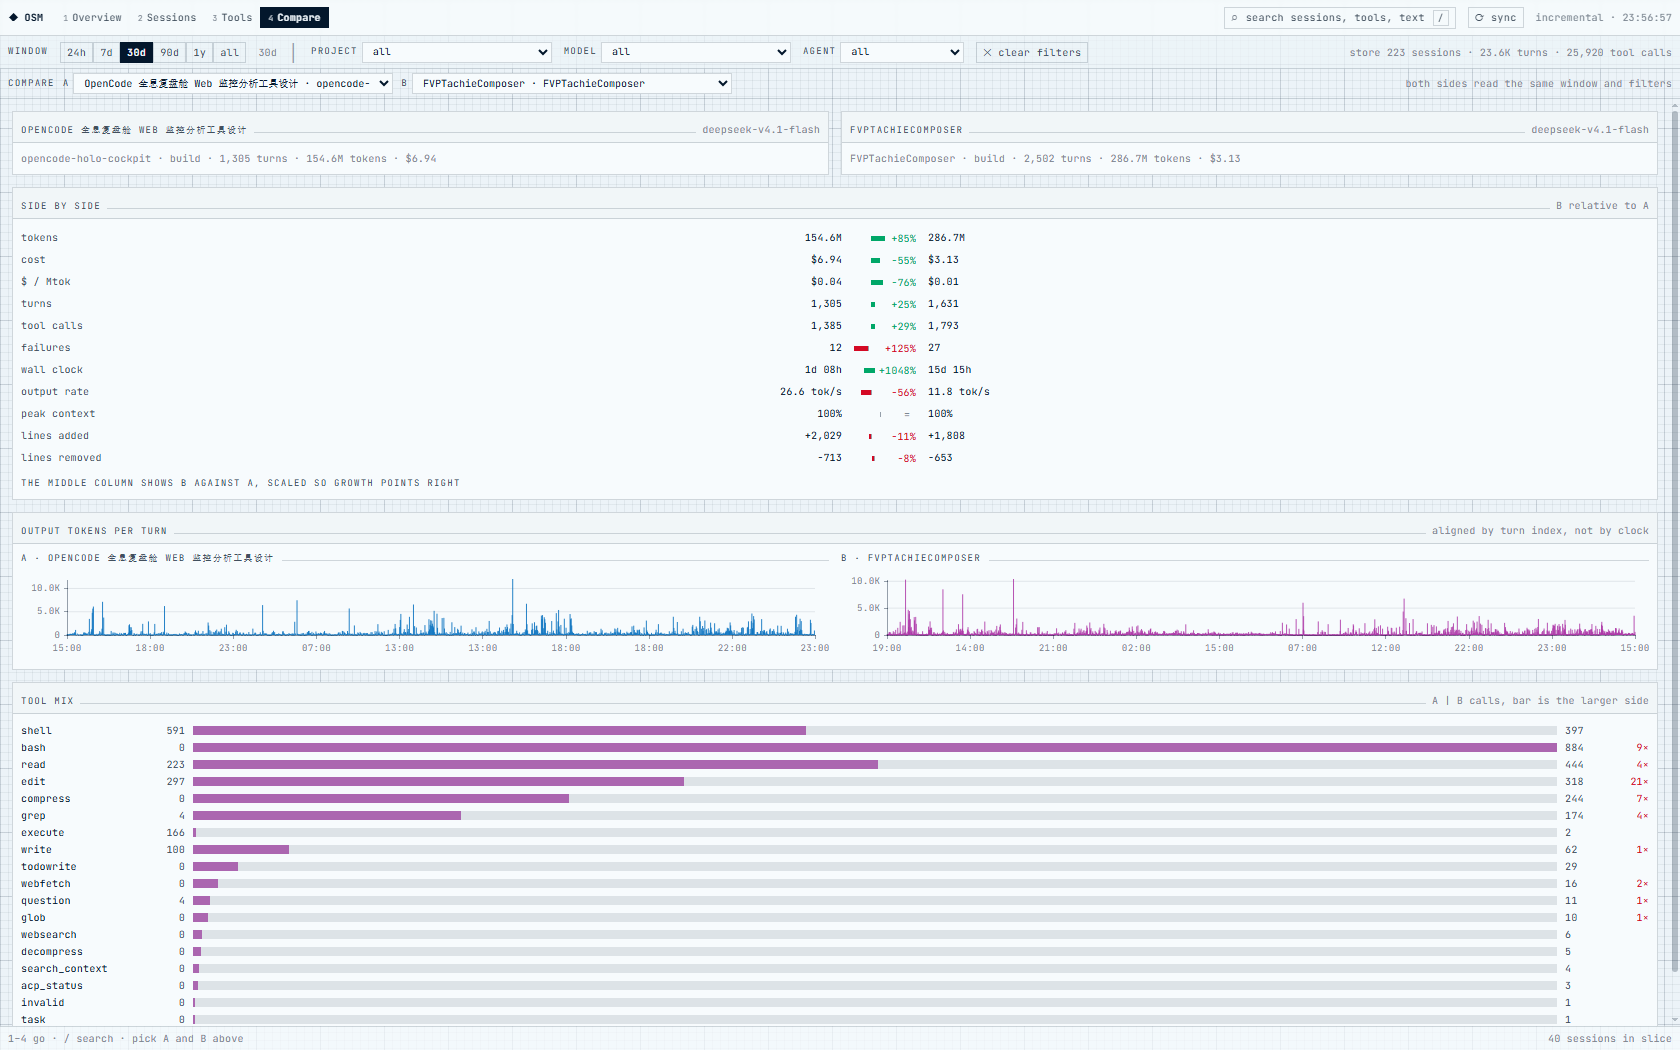
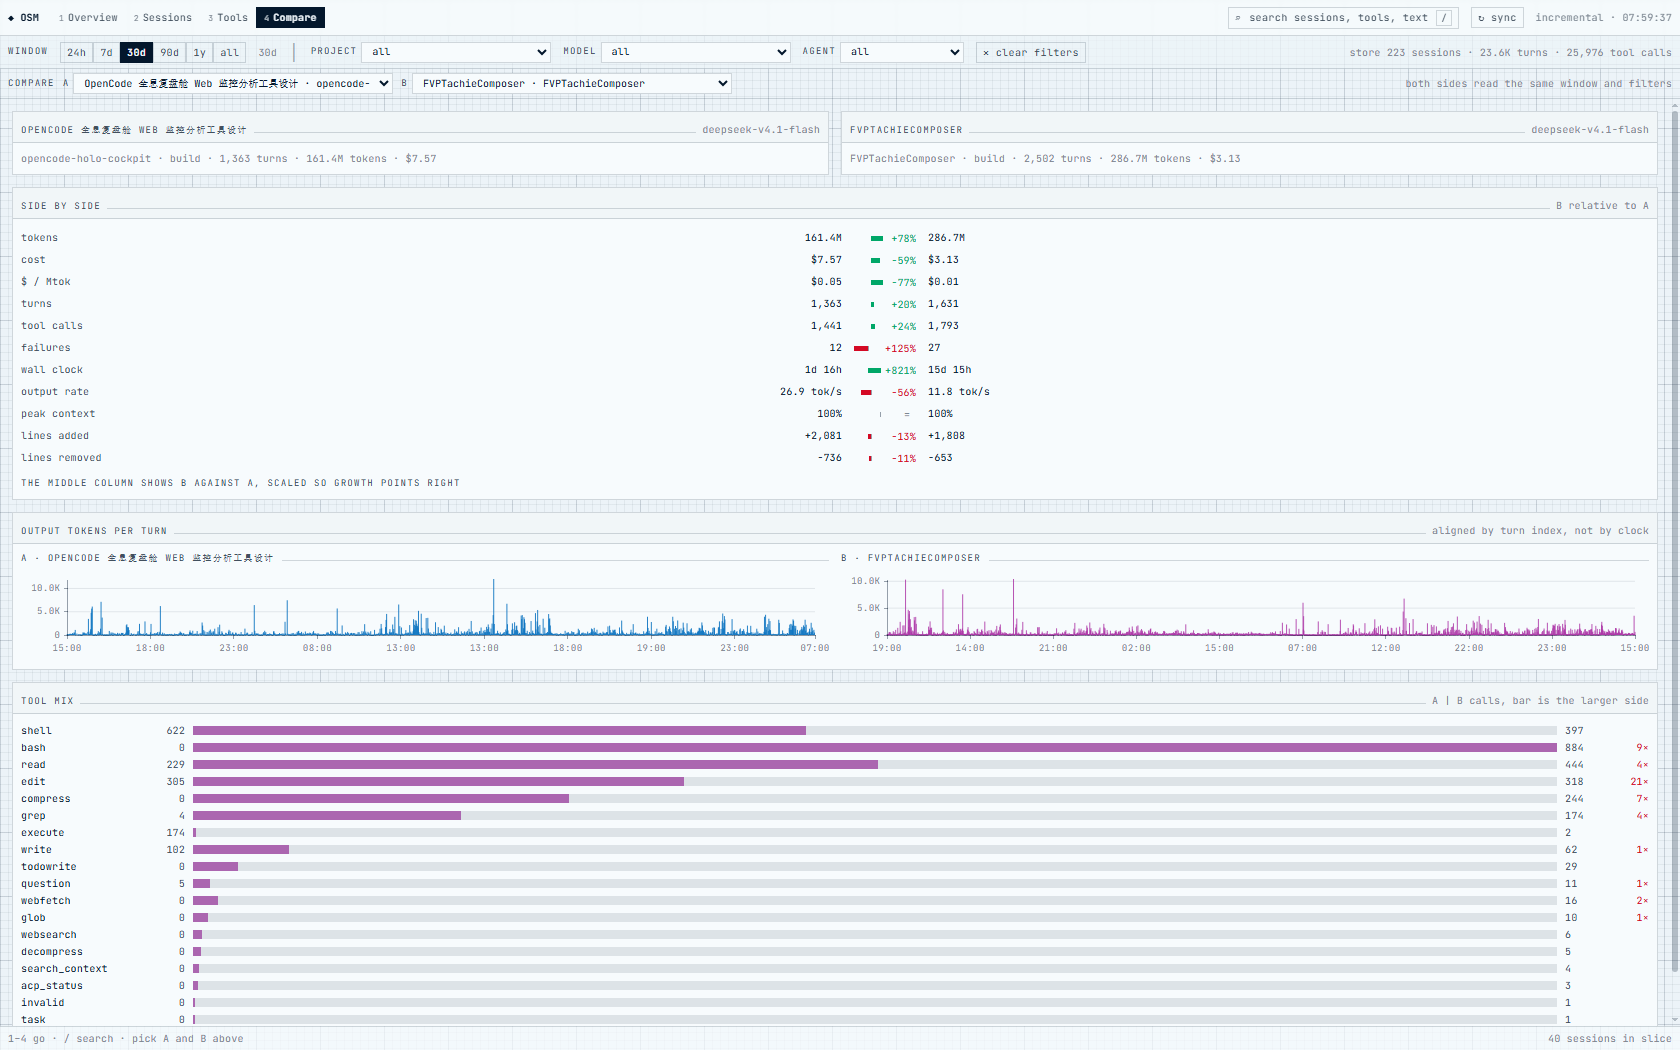
feat(web): 符号随应用一起发，界面上不再有被替换的字形
这套界面把图标当文字画（◆ ⌕ ↻ ▲ ✓ …），而这些字形正好都不在 JetBrains Mono /
Inter 里。浏览器遇到缺字会静默换一个字体来凑：Linux 上落到 DejaVu Sans Mono（还
是等宽，退化看得过去），Windows 上落到比例字体，于是同一个记号在别人机器上是另一
副样子。之前 `✗` 难看就是这个原因。

现在把符号也发出去：`instrument-symbols.woff2`，17 个字形，3.4 KB，切自 DejaVu
Sans Mono，步进改写到 0.6 em 的等宽栅格（1229/2048，与 JetBrains Mono 的 1200/1000
对齐到 0.01% 以内），内部名称改成 Instrument Symbols（并保留 Bitstream 版权记录，
许可证全文在 LICENSE-symbols.txt）。@font-face 只声明这 17 个 code point 的
unicode-range，排在两个正文字体之后，正文字形一个不受影响。

`⟳` 换成 `↻`：前者 DejaVu Sans Mono 里没有，而 `↻` 有，这样符号只来自一个源字体。

验证走 Windows Edge 的 CDP：每个字形同时看「谁画的」和「步进多宽」，17 个全部来自
Instrument Symbols 且都是 24.00px/40px（= 0.6 em）；宽度测量顺带抓出漏掉的 `↵`
（palette 的 `↑↓ ↵ esc`），已补进子集。

截图按新字形重拍五张。

diff --git a/web/src/index.css b/web/src/index.css
@@ -1,7 +1,11 @@
 @import "tailwindcss";
 
-/* Two cuts, both shipped: the interface sets its icons as text, so any glyph outside
-   these two faces is substituted by whatever the OS happens to have — and that shows. */
+/* Three cuts, all shipped.
+   The interface sets its icons as text (◆ ⌕ ↻ ▲ ✓ …), and a browser that cannot find a
+   glyph in the declared stacks silently substitutes one from another typeface — another
+   weight, another advance, mid-line. So the symbols ship too: one 3 KB subset holding
+   exactly the glyphs the interface draws, cut from DejaVu Sans Mono and re-spaced to the
+   0.6 em cell. Nothing on screen is left to the OS to invent. */
 
 @font-face {
   font-family: "JetBrains Mono";
@@ -16,6 +20,17 @@
   font-weight: 100 900;
   font-style: normal;
   font-display: block;
+}
+/* Only the code points the two text cuts leave out, so they keep every glyph they do have,
+   and declared after them in the stacks for the same reason. See LICENSE-symbols.txt. */
+@font-face {
+  font-family: "Instrument Symbols";
+  src: url("/fonts/instrument-symbols.woff2") format("woff2");
+  font-weight: 100 900;
+  font-style: normal;
+  font-display: block;
+  unicode-range: U+03A3, U+2190, U+2192, U+21B5, U+21BB, U+2315, U+2502, U+2514, U+25B2,
+    U+25B8, U+25BC, U+25BE, U+25C6, U+25CC, U+270E, U+2713, U+2715;
 }
 
 /* ------------------------------------------------------------------ *
@@ -43,8 +58,8 @@
   --color-m-claude: oklch(0.55 0.14 45);
   --color-m-default: oklch(0.35 0.04 250);
 
-  --font-mono: "JetBrains Mono", ui-monospace, "DejaVu Sans Mono", monospace;
-  --font-sans: "Inter Grot", "Helvetica Neue", Arial, sans-serif;
+  --font-mono: "JetBrains Mono", "Instrument Symbols", ui-monospace, monospace;
+  --font-sans: "Inter Grot", "Instrument Symbols", "Helvetica Neue", Arial, sans-serif;
 }
 
 /* ------------------------------------------------------------------ *

diff --git a/web/src/lib/transcript.ts b/web/src/lib/transcript.ts
@@ -126,11 +126,10 @@ export const OUT_ROWS = 40;
 /**
  * Status as a mark, in the data face.
  *
- * These are text glyphs, so only glyphs the shipped mono cut actually carries may be
- * used: JetBrains Mono has no U+2713/U+2717/U+25CC, and a browser that cannot find a
- * glyph silently substitutes another typeface — on one machine a mono fallback, on
- * another a proportional symbol face, mid-line. `✓` and `◌` come from that font stack
- * too, but `×` (U+00D7) is in the cut, so the failure mark is a real multiplication
- * sign rather than a substituted ballot X.
+ * `✓` and `◌` are two of the sixteen glyphs in the shipped symbol cut (see index.css),
+ * so they render from the same mono cell everywhere. The failure mark is `×` — the
+ * multiplication sign JetBrains Mono itself carries, and already the project's "n times"
+ * notation: the error signatures on the tools screen count in `4×`. `✗` (U+2717) is in
+ * neither face and was being drawn by whatever font the OS offered instead.
  */
 export const statusGlyph = (status: string): string => (status === "completed" ? "✓" : status === "error" ? "×" : "◌");

diff --git a/web/src/components/Chrome.tsx b/web/src/components/Chrome.tsx
@@ -71,8 +71,9 @@ export function TopBar({ onPalette }: { onPalette: () => void }) {
         <KeyCap>/</KeyCap>
       </button>
 
+      {/* ↻ rather than ⟳: both text faces lack the latter, and a substituted glyph shows. */}
       <button type="button" onClick={() => void sync()} className="btn" title="re-materialize from opencode.db">
-        {busy ? "⟳ syncing" : "⟳ sync"}
+        {busy ? "↻ syncing" : "↻ sync"}
       </button>
       {status.data && (
         <span className="tape shrink-0 text-ink-faint" title={`source: ${status.data.sourceDb ?? "?"}`}>

diff --git a/docs/opencode-top-parity.md b/docs/opencode-top-parity.md
@@ -39,8 +39,11 @@
 
 ## 呈现风格的差异
 
-- 深色 TUI 换成纸白 + 墨蓝；`▓░` 换成实心条；`◆`、`╰─`、`▶`、`✓/◌` 等符号保留，失败标记用 `×`（U+00D7，字形在本体等宽字体里，`✗` 会被浏览器替换成别的字体）
-  （等宽字体下语义清楚）。
+- 深色 TUI 换成纸白 + 墨蓝；`▓░` 换成实心条；`◆`、`╰─`、`▶`、`✓/◌` 等符号保留。
+- 界面把图标当文字画，字体里没有的字形，浏览器会自己换个字体来凑（`✗` 就是这么被画歪的），
+  所以符号随应用一起发：`instrument-symbols.woff2` 是一份约 3 KB 的子集，只含界面真正用到的
+  17 个字形，步进对齐到 0.6 em 的等宽栅格，可重建（见 `web/public/fonts/LICENSE-symbols.txt`）。
+  失败标记用 `×`（U+00D7，本体等宽字体自带，也是错误签名列表里 `4×` 的既有写法）。
 - 键位鼠标优先，键盘等价键保留并在状态栏提示。
 
 ## 浏览器带来的新动作（原版没有的能力）
